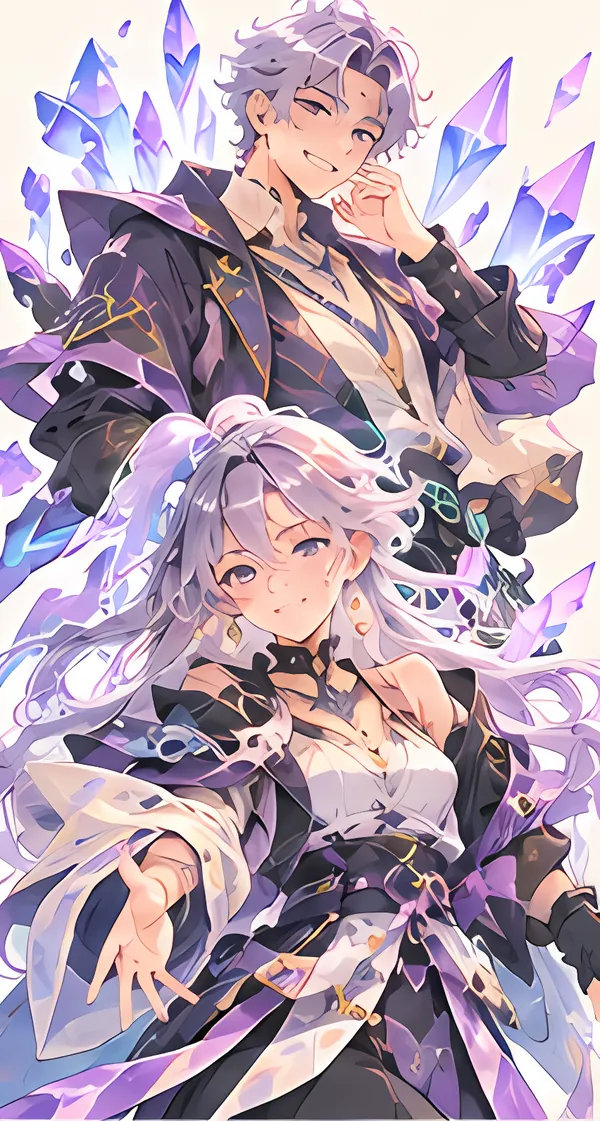
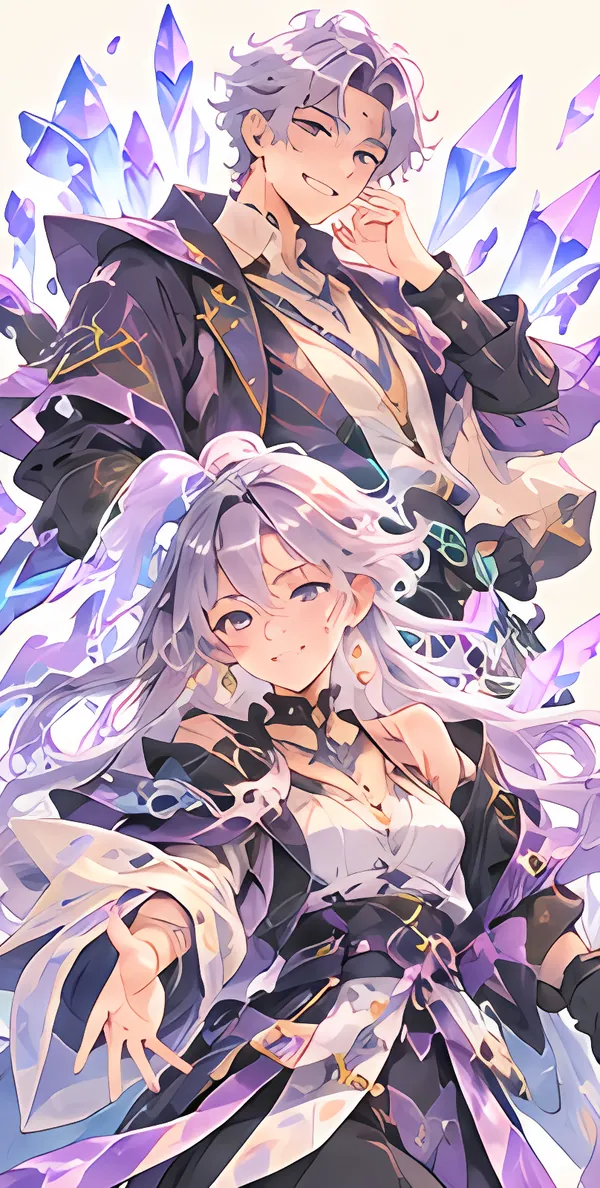
Tử Vi hero: clear hierarchy, clean crops, one- and two-star layouts
- Illustrations recropped inside each panel (no slivers of the neighbour)
  and all the same size; images keep one fixed shape.
- 'Your chart' is a real heading; the year's names are small print under it.
- 'Your essence' leads with the type name as the largest words on the page.
- One main star: picture beside what the type is like (no empty space).
  Two: an equal pair joined by '×', each captioned with its short name; a
  line explains that the chart does not rank them (brightness is not computed).
- Borrowed readings say so under the pictures.

Claude-Session: https://claude.ai/code/session_01XCyy3ErTo49EfGmKPa3F4c

diff --git a/src/components/tuvi-type.tsx b/src/components/tuvi-type.tsx
@@ -6,60 +6,71 @@ export interface TypeView {
   name: string;
   /** The type in the reader's words, e.g. "まわりを照らす太陽タイプ". */
   persona: string;
+  /** The type in a word or two, e.g. "照らす人" (captions under a pair). */
+  short: string;
+  /** What the type is like, in a sentence or two. */
+  plain: string;
 }
 
-/** One type's illustration (a pair of figures drawn for that star), sized by the caller. */
-export function TypeImage({ t, small = false, className = "" }: { t: TypeView; small?: boolean; className?: string }) {
+/** One type's illustration (a pair of figures drawn for that star), always the same shape. */
+export function TypeImage({ t, small = false, className = "" }: { t: Pick<TypeView, "id" | "persona">; small?: boolean; className?: string }) {
   return (
     <img
       src={`/tuvi-types/${t.id}${small ? "-sm" : ""}.webp`}
       srcSet={small ? undefined : `/tuvi-types/${t.id}-sm.webp 300w, /tuvi-types/${t.id}.webp 600w`}
-      sizes={small ? undefined : "(max-width: 640px) 50vw, 280px"}
+      sizes={small ? undefined : "(max-width: 640px) 50vw, 300px"}
       width={small ? 300 : 600}
-      height={small ? 583 : 1166}
+      height={small ? 594 : 1188}
       alt={t.persona}
       loading="lazy"
       decoding="async"
-      className={`block h-auto w-full bg-amber-50/60 ${className}`}
+      className={`block aspect-[300/594] h-auto w-full bg-amber-50/60 object-cover object-top ${className}`}
     />
   );
 }
 
 /**
- * "Your essence" as pictures: the main star(s) of the Self palace, each with its illustration,
- * its type in plain words and the star's own name. Two stars sit side by side; one stands with
- * its words beside it. `note` explains a borrowed reading (no main star of its own).
+ * "Your essence" as pictures. One main star: its picture beside what the type is like. Two main
+ * stars share the Self palace as equals (the chart gives no ground to rank them), so they stand
+ * side by side, joined by "×", each with its own name. `children` (keywords, notes) follow.
  */
-export function TypePortraits({ types, note, children }: { types: TypeView[]; note?: string | null; children?: React.ReactNode }) {
-  if (types.length === 0) return <div className="space-y-2">{children}</div>;
-  // Alone, the words beside the picture already name the type: the caption keeps to the star.
-  const solo = types.length === 1;
-  const card = (x: TypeView, i: number) => (
-    <figure
-      key={x.id}
-      className={`overflow-hidden rounded-2xl bg-white shadow-md ring-2 ring-white ${i ? "motion-safe:animate-[riseIn_.6s_ease-out_.12s_both]" : "motion-safe:animate-[riseIn_.6s_ease-out_both]"}`}
-    >
-      <TypeImage t={x} />
-      <figcaption className="px-2.5 py-2 text-center [word-break:auto-phrase]">
-        {!solo && <span className="block text-[13px] font-bold leading-snug text-stone-900">{x.persona}</span>}
-        <span className={`block ${solo ? "text-xs font-semibold text-stone-700" : "text-[11px] text-stone-500"}`}>{x.name}</span>
-      </figcaption>
-    </figure>
-  );
-  return (
-    <div className="space-y-2" data-testid="type-portraits">
-      {solo ? (
-        <div className="flex items-center gap-4">
-          <div className="w-[46%] max-w-56 shrink-0">{card(types[0]!, 0)}</div>
-          <div className="min-w-0 flex-1 space-y-2">{children}</div>
+export function TypePortraits({ types, children }: { types: TypeView[]; children?: React.ReactNode }) {
+  if (types.length === 0) return children ? <div className="space-y-3">{children}</div> : null;
+  if (types.length === 1) {
+    const x = types[0]!;
+    return (
+      <div className="space-y-3" data-testid="type-portraits">
+        <div className="flex items-start gap-4">
+          <figure className="w-[40%] max-w-52 shrink-0 overflow-hidden rounded-2xl bg-white shadow-md ring-2 ring-white motion-safe:animate-[riseIn_.6s_ease-out_both]">
+            <TypeImage t={x} />
+          </figure>
+          <div className="min-w-0 flex-1 space-y-2 pt-1">
+            <p className="text-[11px] font-semibold tracking-wide text-teal-700">{x.name}</p>
+            <p className="text-sm leading-7 text-stone-700">{x.plain}</p>
+          </div>
         </div>
-      ) : (
-        <>
-          <div className="grid grid-cols-2 gap-3">{types.map(card)}</div>
-          {children}
-        </>
-      )}
-      {note && <p className="text-xs leading-5 text-teal-900/80">{note}</p>}
+        {children}
+      </div>
+    );
+  }
+  return (
+    <div className="space-y-3" data-testid="type-portraits">
+      <div className="relative grid grid-cols-2 gap-2.5">
+        {types.slice(0, 2).map((x, i) => (
+          <figure
+            key={x.id}
+            className={`flex flex-col overflow-hidden rounded-2xl bg-white shadow-md ring-2 ring-white ${i ? "motion-safe:animate-[riseIn_.6s_ease-out_.12s_both]" : "motion-safe:animate-[riseIn_.6s_ease-out_both]"}`}
+          >
+            <TypeImage t={x} />
+            <figcaption className="flex flex-1 flex-col justify-center px-2 py-2 text-center [word-break:auto-phrase]">
+              <span className="block text-[13px] font-bold leading-snug text-stone-900">{x.short}</span>
+              <span className="mt-0.5 block text-[11px] text-stone-500">{x.name}</span>
+            </figcaption>
+          </figure>
+        ))}
+        <span aria-hidden className="absolute left-1/2 top-[38%] flex h-9 w-9 -translate-x-1/2 items-center justify-center rounded-full bg-white text-lg font-black text-violet-700 shadow-md ring-2 ring-violet-100">×</span>
+      </div>
+      {children}
     </div>
   );
 }

diff --git a/src/app/(app)/tuvi/page.tsx b/src/app/(app)/tuvi/page.tsx
@@ -67,26 +67,34 @@ export default async function TuviPage({ searchParams }: { searchParams: Promise
       <Flash t={t} sp={sp} />
       {v.error && <Flash t={t} sp={{ e: v.error }} />}
       {c && (
-        <section className="overflow-hidden rounded-3xl bg-linear-to-br from-teal-100 via-sky-50 to-violet-200 p-5 text-teal-950 shadow-[0_10px_30px_-14px_rgba(91,70,160,0.35)]">
-          <p className="text-xs uppercase tracking-[0.2em] text-teal-700">{ui.heroEyebrow}</p>
-          <p className="mt-1 text-sm text-teal-900/80">{c.yearPillar.name} · {t.tuvi.napAm} {c.napAm.name}</p>
+        <section className="overflow-hidden rounded-3xl bg-linear-to-br from-teal-100 via-sky-50 to-violet-200 p-5 text-teal-950 shadow-[0_10px_30px_-14px_rgba(91,70,160,0.35)]" data-testid="tuvi-hero">
+          {/* Heading first, the year's names as small print under it. */}
+          <h2 className="text-lg font-bold text-teal-950">{ui.heroEyebrow}</h2>
+          <p className="text-xs text-teal-900/70">{c.yearPillar.name} · {t.tuvi.napAm} {c.napAm.name}</p>
           {menh ? (
-            <>
-              <p className="mt-3 text-xs font-semibold text-teal-700">✨ {ui.typeEyebrow}</p>
-              {/* The type(s) as pictures first: easier to take in than star names. */}
-              <div className="mt-2">
-                <TypePortraits types={essence.types} note={essence.borrowed ? ui.typeBorrowed : null}>
-                  <div>
-                    <p className="text-xs text-teal-700">{ui.menhStars}</p>
-                    <p className="text-xl font-semibold tracking-tight">{menh.mains.map((m) => m.name).join(" · ") || "—"}</p>
-                  </div>
+            <div className="mt-4 rounded-3xl bg-white/60 p-4 ring-1 ring-white/80">
+              <p className="text-xs font-bold tracking-wide text-violet-700">✨ {ui.typeEyebrow}</p>
+              {/* The largest words on the page: who the chart says you are. */}
+              <p className="mt-1 text-xl font-black leading-snug text-stone-900 [word-break:auto-phrase]" data-testid="essence">
+                {essence.types.length
+                  ? essence.types.map((x, i) => (
+                      <span key={x.id} className="block">
+                        {i > 0 && <span aria-label="×" className="block text-sm font-bold leading-5 text-violet-500">×</span>}
+                        {x.persona}
+                      </span>
+                    ))
+                  : persona}
+              </p>
+              {essence.types.length > 1 && <p className="mt-1 text-xs leading-5 text-stone-600">{ui.typePair}</p>}
+              <div className="mt-3">
+                <TypePortraits types={essence.types}>
                   <div className="flex flex-wrap gap-1.5">
-                    {menh.mains.map((m) => <span key={m.name} className="rounded-full bg-white/70 px-2.5 py-0.5 text-xs text-violet-900">{m.keywords}</span>)}
+                    {menh.mains.map((m) => <span key={m.name} className="rounded-full bg-violet-50 px-2.5 py-0.5 text-xs text-violet-900 ring-1 ring-violet-100">{m.keywords}</span>)}
                   </div>
-                  {persona && <p className="text-sm text-teal-950"><span className="text-xs text-teal-700">{ui.personaLead}{t.common.colon}</span><b>{t.common.quoteOpen}{persona}{t.common.quoteClose}</b></p>}
+                  {essence.borrowed && <p className="text-xs leading-5 text-stone-600">ℹ {ui.typeBorrowed}</p>}
                 </TypePortraits>
               </div>
-            </>
+            </div>
           ) : (
             <p className="mt-3 text-sm text-teal-900/80">{v.sections[0]?.paragraphs[0]?.text}</p>
           )}

diff --git a/src/app/(app)/welcome/page.tsx b/src/app/(app)/welcome/page.tsx
@@ -186,12 +186,15 @@ async function ChartResult({ t, locale, tv }: { t: Awaited<ReturnType<typeof get
     <section className="space-y-4">
       <div className="rounded-3xl bg-linear-to-br from-teal-100 via-sky-50 to-violet-200 p-5 text-teal-950 shadow-[0_10px_30px_-14px_rgba(91,70,160,0.35)] motion-safe:animate-[zoomIn_.5s_ease-out]" data-testid="chart-result">
         <p className="text-xs font-semibold text-teal-700">✨ {w.resultEyebrow}</p>
+        {persona && <p className="mt-2 text-xl font-black leading-snug text-stone-900 [word-break:auto-phrase]">{w.resultPersona(persona)}</p>}
+        {essence.types.length > 1 && <p className="mt-1 text-xs leading-5 text-stone-600">{t.tuvi.ui.typePair}</p>}
         <div className="mt-3">
-          <TypePortraits types={essence.types} note={essence.borrowed ? t.tuvi.ui.typeBorrowed : null}>
-            {persona && <p className="text-xl font-bold leading-snug">{w.resultPersona(persona)}</p>}
+          <TypePortraits types={essence.types}>
+            {essence.borrowed && <p className="text-xs leading-5 text-stone-600">ℹ {t.tuvi.ui.typeBorrowed}</p>}
           </TypePortraits>
         </div>
-        {plain.map((x) => <p key={x} className="mt-2 text-sm leading-7 text-teal-950/90">{x}</p>)}
+        {/* One type already has its words beside the picture; two get theirs here. */}
+        {essence.types.length !== 1 && plain.map((x) => <p key={x} className="mt-2 text-sm leading-7 text-teal-950/90">{x}</p>)}
         <p className="mt-3 text-xs leading-5 text-rose-900">{w.resultShare}</p>
       </div>
       {c.menh !== null ? (

diff --git a/src/lib/tuvi/type-view.ts b/src/lib/tuvi/type-view.ts
@@ -3,11 +3,12 @@ import type { Locale } from "@/lib/i18n/locales";
 import type { Chart } from "./engine";
 import { mainsOf } from "./interpret";
 import { STAR_PLAIN } from "./plain";
+import { STAR_SHORT } from "./plain-names";
 import { STAR_INFO } from "./stars";
 
 /** The types behind "your essence": the Self palace's main stars, or the opposite palace's when it has none. */
 export function essenceTypes(chart: Chart, locale: Locale): { types: TypeView[]; borrowed: boolean } {
   const m = mainsOf(chart, "menh");
   if (!m) return { types: [], borrowed: false };
-  return { types: m.mains.map((id) => ({ id, name: STAR_INFO[id].vi, persona: STAR_PLAIN[id].persona[locale] })), borrowed: m.borrowed };
+  return { types: m.mains.map((id) => ({ id, name: STAR_INFO[id].vi, persona: STAR_PLAIN[id].persona[locale], short: STAR_SHORT[id][locale], plain: STAR_PLAIN[id].plain[locale] })), borrowed: m.borrowed };
 }

diff --git a/tests/e2e/flow.spec.ts b/tests/e2e/flow.spec.ts
@@ -86,7 +86,7 @@ test("Tử Vi: plain words first, and a guide for beginners", async ({ browser }
   await page.getByLabel(/^生年月日/).fill("1990-06-07");
   await setBirthTime(page, "06:30");
   await page.getByRole("button", { name: "保存して計算" }).click();
-  await expect(page.getByText("ひとことで言うと：")).toBeVisible();
+  await expect(page.getByTestId("essence")).toContainText("タイプ");
   await expect(page.getByText("💡 かんたんに言うと").first()).toBeVisible();
   await expect(page.getByText("ここは「どんな人か」を見るところです。", { exact: false })).toBeVisible();
   await page.getByRole("button", { name: /この読みに出てくる言葉/ }).click();

diff --git a/src/app/(app)/tuvi/guide/page.tsx b/src/app/(app)/tuvi/guide/page.tsx
@@ -99,7 +99,7 @@ export default async function TuviGuidePage() {
           {MAIN_STARS.map((s) => (
             <li key={s} className="flex gap-3 rounded-2xl bg-white/85 p-3 ring-1 ring-stone-200/60">
               <span className="w-20 shrink-0 self-start overflow-hidden rounded-xl ring-1 ring-stone-200/60">
-                <TypeImage t={{ id: s, name: STAR_INFO[s].vi, persona: L(STAR_PLAIN[s].persona) }} small />
+                <TypeImage t={{ id: s, persona: L(STAR_PLAIN[s].persona) }} small />
               </span>
               <span className="min-w-0">
                 <span className="block font-semibold text-stone-900">{STAR_INFO[s].vi}</span>

diff --git a/src/lib/i18n/messages/ja.ts b/src/lib/i18n/messages/ja.ts
@@ -464,6 +464,7 @@ export const ja: Dict = {
       guideLink: "はじめての方へ：Tử Vi の読み方",
       guideSub: "命盤の見方、12の宮、星の意味をやさしく説明します",
       typeEyebrow: "あなたの本質",
+      typePair: "命宮に2つの主星が並んでいます。どちらが上ということはなく、2つの顔をあわせ持つ人と読みます。",
       typeBorrowed: "命宮に主役の星（主星）がないため、真向かいの宮の星を借りて読んでいます。",
       personaLead: "ひとことで言うと",
       reflectTitle: "振り返りのヒント",

diff --git a/src/lib/i18n/messages/vi.ts b/src/lib/i18n/messages/vi.ts
@@ -464,6 +464,7 @@ export const vi: Dict = {
       guideLink: "Mới làm quen Tử Vi? Cách đọc lá số",
       guideSub: "Giải thích dễ hiểu về lá số, mười hai cung và các sao",
       typeEyebrow: "Bản chất của bạn",
+      typePair: "Cung Mệnh có hai chính tinh đồng cung. Không sao nào trội hơn: bạn được đọc là người mang cả hai mặt.",
       typeBorrowed: "Cung Mệnh vô chính diệu nên được đọc qua các chính tinh của cung đối diện.",
       personaLead: "Nói ngắn gọn",
       reflectTitle: "Gợi ý để nhìn lại",

diff --git a/src/lib/i18n/messages/en.ts b/src/lib/i18n/messages/en.ts
@@ -462,6 +462,7 @@ export const en = {
       guideLink: "New to Tử Vi? How to read it",
       guideSub: "The chart, the twelve palaces and the stars, explained simply",
       typeEyebrow: "Your essence",
+      typePair: "Two main stars share your Mệnh. Neither outranks the other: you are read as someone with both sides.",
       typeBorrowed: "Your Mệnh has no main star of its own, so it is read through the stars of the opposite palace.",
       personaLead: "In a word",
       reflectTitle: "To look back",
